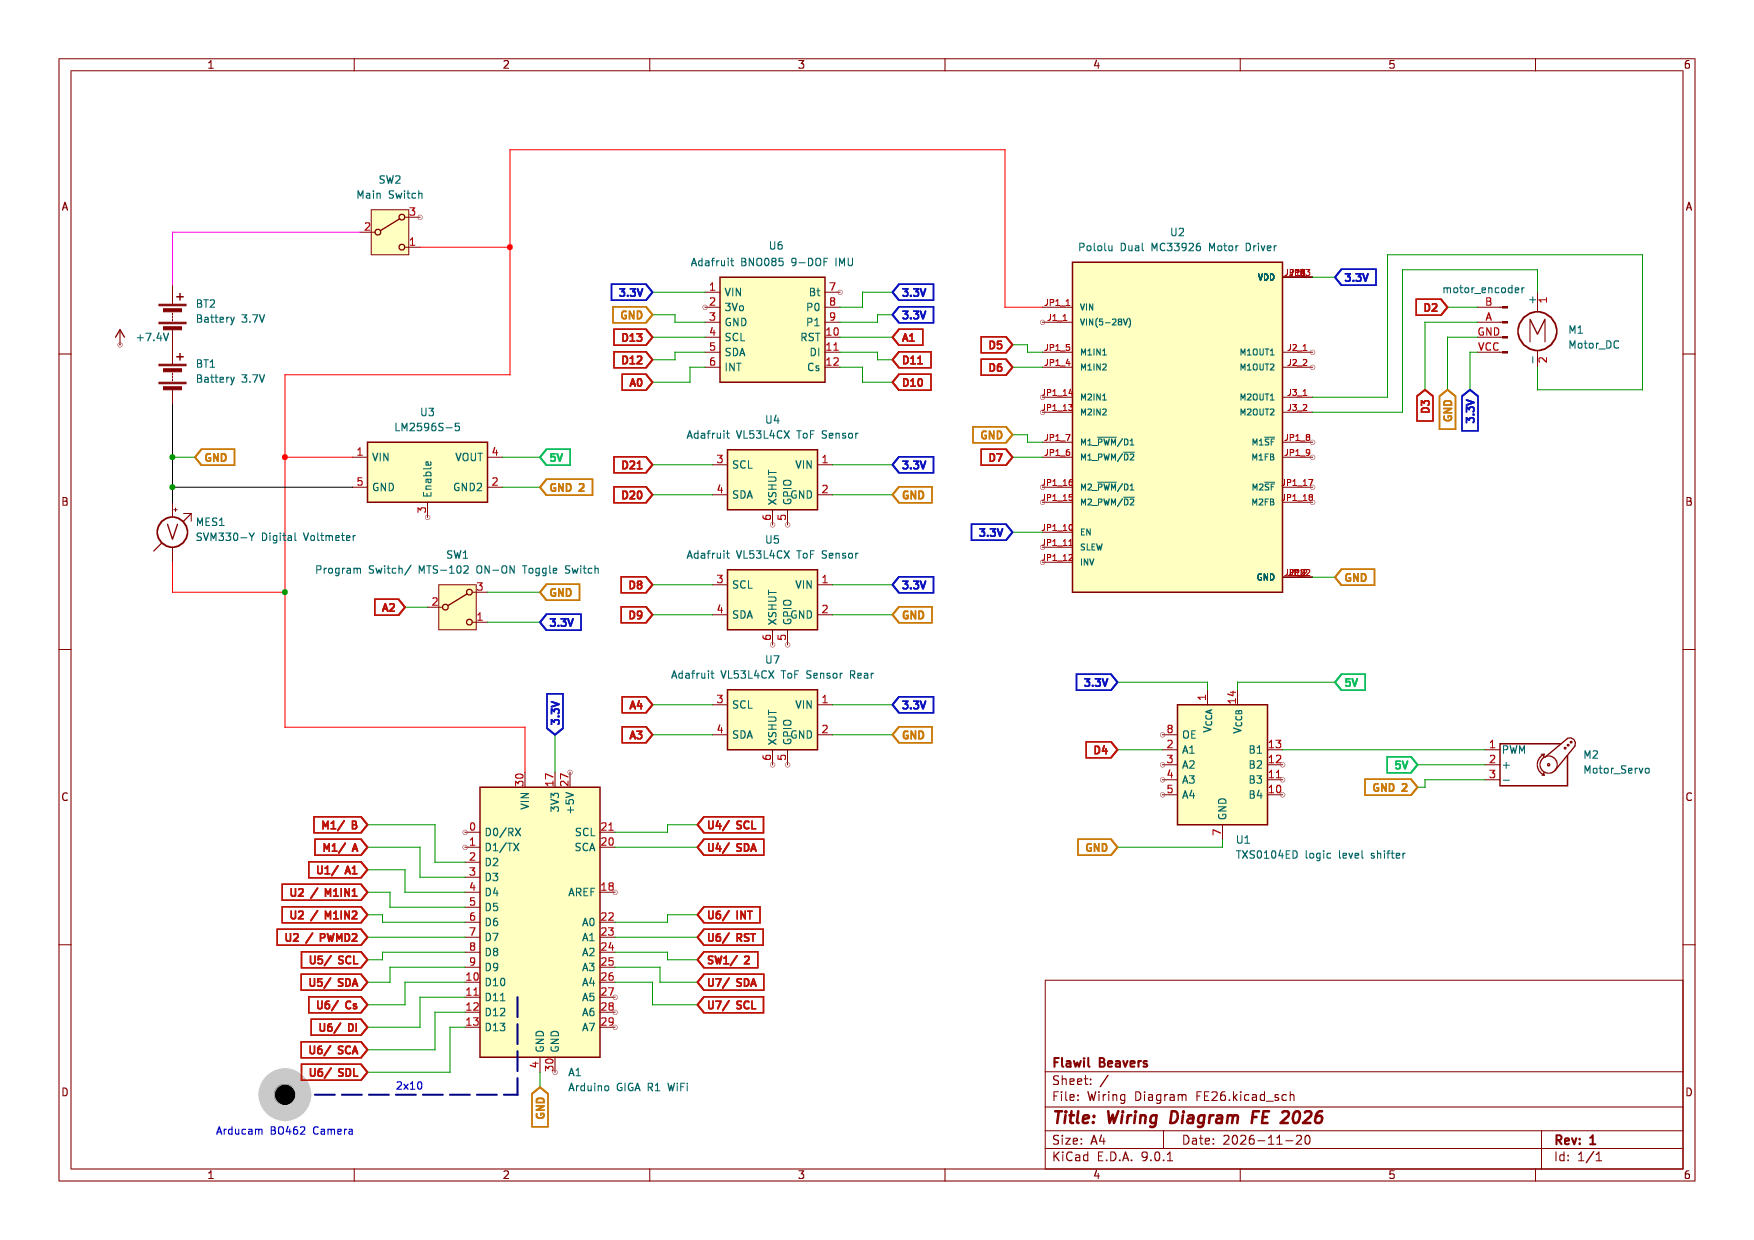
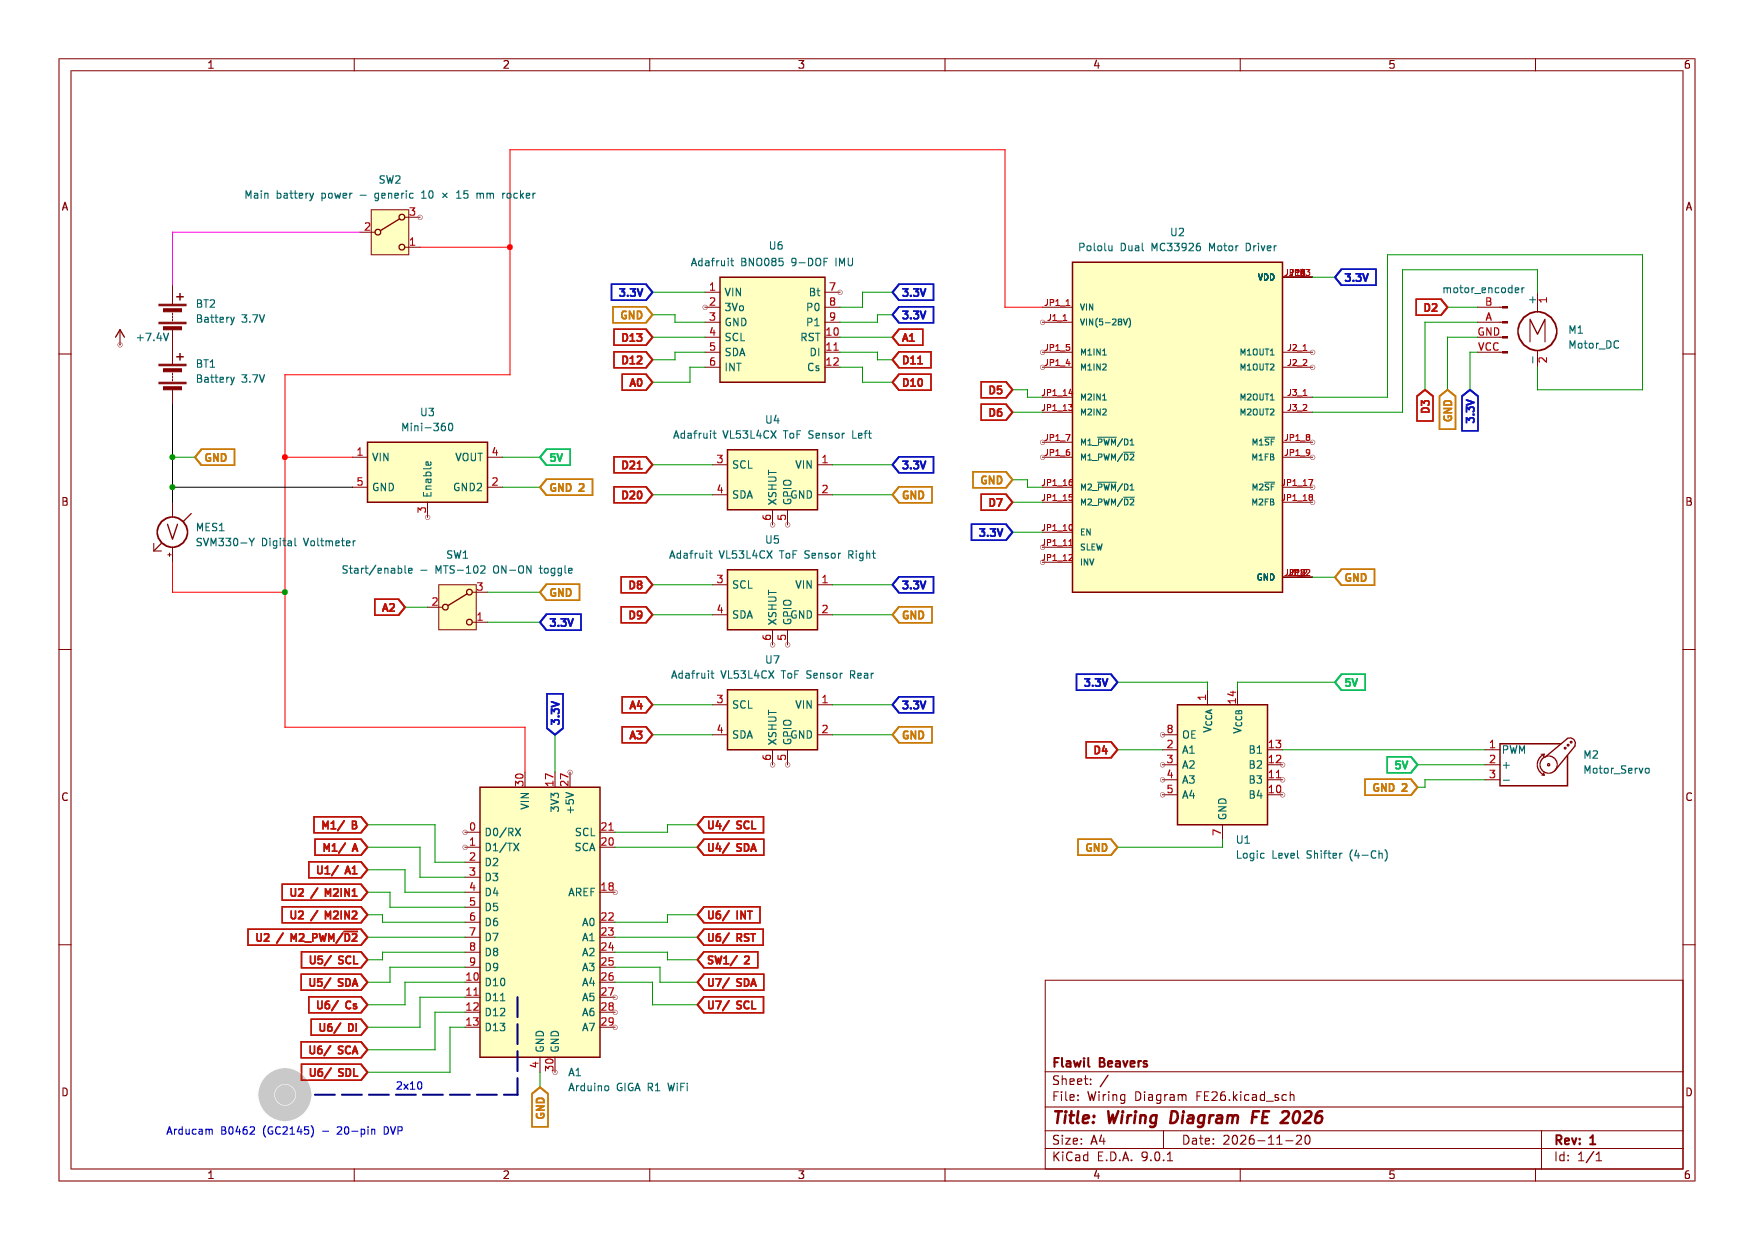
update robot pictures and wiring

diff --git a/DOCUMENTATION_TODO.md b/DOCUMENTATION_TODO.md
@@ -6,7 +6,7 @@ Complete the checklist after the hardware and competition software are frozen. B
 
 The canonical official links used for this checklist are recorded in the [WRO 2026 Rules Reference](WRO_2026_RULES.md).
 
-- [ ] Replace the June robot photographs with final front, rear, left, right, top and bottom views showing the rear ToF, final wiring, camera mount and chassis. The team will add the replacements later (confirmed November 18).
+- [x] Replace the June robot photographs with the supplied front, rear, left, right, top and bottom views of the current robot (November 20).
 - [x] Link the supplied 2026 team photo in the README (November 20). Public GitHub rendering remains part of the final repository link check below.
 - [ ] Remeasure mass after the rear-ToF addition; 670 g is the earlier recorded value. The team confirms unchanged dimensions (November 18). Confirm final height and reconcile the nominal 165 mm bay-sizing length with the measured 158/170 mm straight/steered extent before freezing the specification; retain the measured 98 mm wheelbase and 123 mm straight width separately from nominal route/exit constants.
 - [x] Add and link the supplied version 74 Fusion archive, printable `.3mf` project, MK4 Input Shaper binary G-code and PrusaSlicer preparation/toolpath screenshots; document how to open the project and adapt printer settings, plus printer, nozzle, material, layer height, infill, supports and estimates. Earlier CAD versions remain available in Git history (November 20).
@@ -15,9 +15,10 @@ The canonical official links used for this checklist are recorded in the [WRO 20
 - [ ] Check the CAD and print assets against any subsequent physical changes before submitting the final documentation.
 - [x] Replace the June schematic with the supplied [revision 1 wiring diagram](img/diagrams/Wiring_Diagram_FE2026_v1.png), which shows the 2S pack and all three ToF sensors.
 - [x] Verify that the drawing's rear-ToF pin labels match the M4 firmware (A3 SDA, A4 SCL).
-- [ ] Annotate the diagram with the internal M4-to-M7 OpenAMP/RPC link.
+- [x] Document the internal M4-to-M7 OpenAMP/RPC link in the [README data-flow diagram](README.md#control-ownership-and-data-flow).
 - [x] Identify the Arducam GC2145, Mini-360 adjustable step-down module, generic 3.3 V to 5 V logic-level shifter and BerryBase SVM330-Y display. Retain the team's BOM quantities and project cost estimates.
-- [ ] Verify the Mini-360 output setting and loads, grounds, signal-shifter connections, voltmeter tap and motor supply on the actual robot. Revision 1 shows a 5 V servo rail and retains the LM2596S-5 and TXS0104ED labels. Reconcile those labels with the confirmed BOM.
+- [x] Check the updated wiring drawing for consistent M2 motor connections, voltmeter polarity, and labels for the switches, camera, ToFs, Mini-360 and generic level shifter (November 20).
+- [ ] Check the power wiring against the robot. Confirm the Mini-360 output voltage and loads, where `GND` and `GND 2` join, and whether the Mini-360 and level shifter symbols match the terminals on the installed modules. Verify the voltmeter tap and motor supply.
 - [ ] Recheck power budget by rail against the finished schematic and measure typical and peak battery and regulator currents if available. Existing current figures are planning estimates based on datasheet values and engineering allowances.
 - [x] Move the Bill of Materials before Assembly and update the README navigation (November 18).
 - [x] Replace the historical Open Challenge video and add the supplied Obstacle Challenge link and matching previews (November 18): Open `koMCLdpg0-I`, Obstacle `5dCMkFn-6TI`.
@@ -41,4 +42,4 @@ The canonical official links used for this checklist are recorded in the [WRO 20
 
 November 18 README update: the team confirms the rear-ToF addition, unchanged dimensions and unchanged print settings (0.2 mm, no supports). The README reflects current full-run flags, measured parking geometry, modified-sign implementation and recorded validation limits.
 
-November 20 documentation update: the team confirmed v74 includes the rear-ToF mount. The linked `.3mf` contains 17 meshes with the saved plate and print settings. The README links the current CAD, team photo, challenge videos, revision 1 wiring diagram and engineering evidence. The June vehicle photos are identified as historical. PDF work remains deferred.
+November 20 documentation update: the team confirmed v74 includes the rear-ToF mount. The linked `.3mf` contains 17 meshes with the saved plate and print settings. The README links the current CAD, team photo, six current robot views, challenge videos, revision 1 wiring diagram and engineering evidence. PDF work remains deferred.

diff --git a/README.md b/README.md
@@ -25,7 +25,7 @@ We are **Damian Hardegger** and **Philipp Kündig** from Flawil, Switzerland, co
 | Adafruit BNO085 | 1 | IMU for absolute heading measurement | 24.95 |
 | Adafruit VL53L4CX | 3 | Left, right and rear time-of-flight ranging | 59.70 |
 | Qwiic/STEMMA QT cables | 2 | Cut into pigtails for direct ToF-to-GIGA wiring | 23.10 |
-| Arducam GC2145 camera | 1 | On-board traffic-sign vision | ~30.00 |
+| Arducam B0462 camera (GC2145) | 1 | On-board traffic-sign vision | ~30.00 |
 | Pololu Dual MC33926 motor driver | 1 | Bidirectional drive control | ~25.00 |
 | Adjustable Mini-360 DC-DC step-down module | 1 | Voltage regulation | ~2.00 |
 | Generic 3.3 V to 5 V logic-level shifter | 1 | Signal-level translation | ~3.00 |
@@ -205,12 +205,13 @@ The peak case puts about **0.70 A** on the Mini-360 output. Regulator headroom d
 
 | Function | Interface |
 | --- | --- |
-| Drive motor and encoder | Motor driver direction D5/D6 and PWM D7, quadrature encoder D3/D2 |
+| Drive motor and encoder | Motor driver channel M2, direction D5/D6 and PWM D7. Encoder A on D3 and B on D2. |
 | Steering servo signal | D4 |
 | BNO085 IMU | `SPI1` with chip select D10, interrupt A0 and reset A1 |
-| Left and right VL53L4CX | Separate M7 hardware I²C buses, `Wire` and `Wire2` |
+| Left VL53L4CX | M7 hardware I²C (`Wire`), SDA D20 and SCL D21 |
+| Right VL53L4CX | M7 hardware I²C (`Wire2`), SDA D9 and SCL D8 |
 | Rear VL53L4CX | M4 software I²C at 100 kHz, SDA A3 and SCL A4 |
-| Arducam GC2145 | GIGA camera connector, DCMI pixel input and I²C configuration |
+| Arducam B0462 (GC2145) | 20-pin GIGA camera connector, DCMI pixel input and I²C configuration |
 | Main power rocker (SW2) | Switches the positive battery lead |
 | Physical start/enable toggle (SW1) | A2, active HIGH |
 | Rear measurement transfer | On-chip OpenAMP/RPC, fixed-size frames with sequence and status |
@@ -423,11 +424,15 @@ Use the latest [main branch](https://github.com/flawil-beavers/Future-Engineers_
 
 # Robot Photos
 
-These six views document the June build before the rear sensor was added.
+These six views show the current robot. The rear view shows the rear ToF sensor below the main power switch, and the bottom view shows both battery holders.
 
-| ![Left](img/robot/PXL_20260617_185159148.MP.jpg) | ![Rear](img/robot/PXL_20260617_185207747.MP.jpg) | ![Right](img/robot/PXL_20260617_185218350.MP.jpg) |
-|---|---|---|
-| ![Front](img/robot/PXL_20260617_185228987.MP.jpg) | ![Top](img/robot/PXL_20260617_185256705.MP.jpg) | ![Bottom](img/robot/PXL_20260617_185318976.MP.jpg) |
+| Left | Rear | Right |
+| :---: | :---: | :---: |
+| ![Left side of the robot](img/robot/robot-left.jpg) | ![Rear of the robot with the rear ToF sensor](img/robot/robot-rear.jpg) | ![Right side of the robot with the voltage display](img/robot/robot-right.jpg) |
+
+| Front | Top | Bottom |
+| :---: | :---: | :---: |
+| ![Front of the robot with the camera](img/robot/robot-front.jpg) | ![Top of the robot with the controller and wiring](img/robot/robot-top.jpg) | ![Underside of the robot with both battery holders](img/robot/robot-bottom.jpg) |
 
 # AI Use Declaration
 

diff --git a/AGENT_DOCUMENTATION.md b/AGENT_DOCUMENTATION.md
@@ -86,9 +86,10 @@ record physical measurements, then complete the PDF/hardcopy checks in
 [DOCUMENTATION_TODO.md](DOCUMENTATION_TODO.md).
 
 The supplied [revision 1 wiring PNG](img/diagrams/Wiring_Diagram_FE2026_v1.png)
-replaces the June drawing. The corrected PNG shows rear I²C SDA on A3 and
-SCL on A4, matching M4 source. Reconcile the regulator and level-shifter
-labels with the BOM before the final documentation export.
+replaces the June drawing. The updated export shows motor controls and outputs
+on M2, the corrected voltmeter polarity and the current component labels.
+Rear I²C remains SDA on A3 and SCL on A4, matching M4 source. Verify the power
+rails, ground return and module terminals on the robot before the final export.
 
 The team confirmed that each ToF uses a half STEMMA QT/Qwiic lead with
 jumpers directly to the GIGA. Separate ToF buses avoid startup address
@@ -97,3 +98,5 @@ unreliable heading readings, so the BNO085 uses SPI over separate jumpers.
 The [README wiring section](README.md#wiring-and-signal-interfaces) records
 the rationale, and the [rear setup guide](REAR_TOF_M4_SETUP.md#wiring) records
 the connection method. No new firmware or physical test.
+
+The team supplied six current robot photos. The [README photo gallery](README.md#robot-photos) now shows the front, rear, left, right, top and bottom, including the rear ToF and both battery holders. Next record final measurements and include the new photos in the final PDF export.
